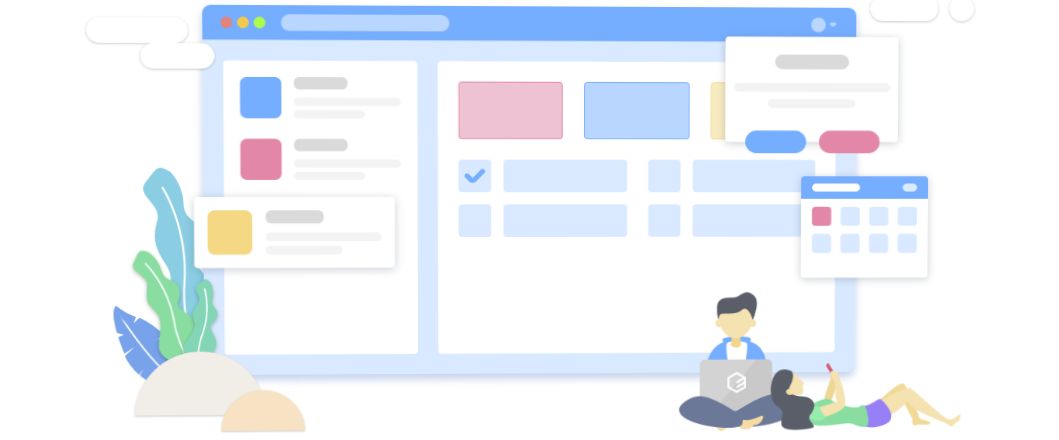
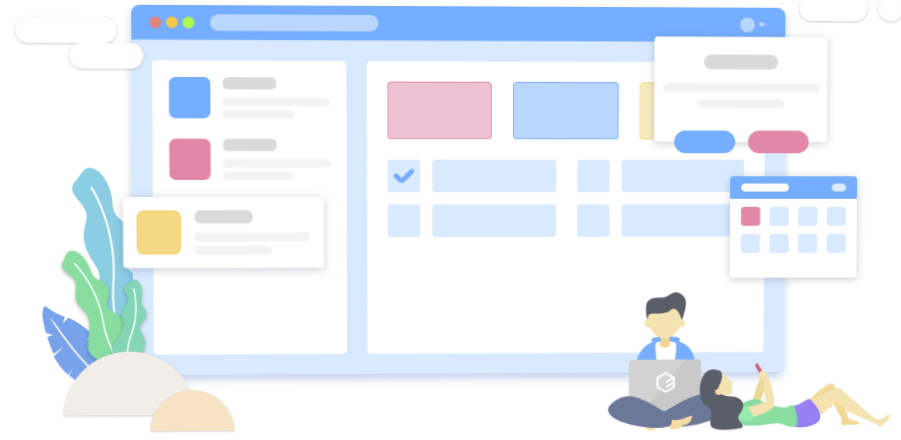
update: 优化首页，添加更新时间轴

diff --git a/wj-vue/src/components/home/Card.vue b/wj-vue/src/components/home/Card.vue
@@ -1,26 +1,44 @@
 <template>
-  <div style="width: 80%; margin-left: auto; margin-right: auto; height: 350px">
-    <div style="position: relative">
-      <el-card class="box-card">
-      <div slot="header" class="clearfix">
-        <span>最新内容</span>
-        <el-button style="float: right; padding: 3px 0" type="text">处理</el-button>
-      </div>
-      <div v-for="o in 4" :key="o" class="text item">
-        {{'新增内容 ' + o }}
-      </div>
-    </el-card>
-      <el-card class="box-card-2">
-        <div slot="header" class="clearfix">
-          <span>最新内容</span>
-          <el-button style="float: right; padding: 3px 0" type="text">处理</el-button>
-        </div>
-        <div v-for="o in 4" :key="o" class="text item">
-          {{'新增内容 ' + o }}
-        </div>
-      </el-card>
+  <el-card class="box-card">
+    <div slot="header" class="clearfix">
+      <span>最近更新</span>
+      <el-button style="float: right; padding: 3px 0" type="text">处理</el-button>
     </div>
-  </div>
+    <div class="block">
+      <el-timeline>
+        <el-timeline-item timestamp="2018/4/12" placement="top">
+          <el-card>
+            <h4>更新 Github 模板</h4>
+            <p>王小虎 提交于 2018/4/12 20:46</p>
+          </el-card>
+        </el-timeline-item>
+        <el-timeline-item timestamp="2018/4/3" placement="top">
+          <el-card>
+            <h4>更新 Github 模板</h4>
+            <p>王小虎 提交于 2018/4/3 20:46</p>
+          </el-card>
+        </el-timeline-item>
+        <el-timeline-item timestamp="2018/4/2" placement="top">
+          <el-card>
+            <h4>更新 Github 模板</h4>
+            <p>王小虎 提交于 2018/4/2 20:46</p>
+          </el-card>
+        </el-timeline-item>
+        <el-timeline-item timestamp="2018/4/3" placement="top">
+          <el-card>
+            <h4>更新 Github 模板</h4>
+            <p>王小虎 提交于 2018/4/3 20:46</p>
+          </el-card>
+        </el-timeline-item>
+        <el-timeline-item timestamp="2018/4/3" placement="top">
+          <el-card>
+            <h4>更新 Github 模板</h4>
+            <p>王小虎 提交于 2018/4/3 20:46</p>
+          </el-card>
+        </el-timeline-item>
+      </el-timeline>
+    </div>
+  </el-card>
 </template>
 
 <script>
@@ -30,40 +48,10 @@
 </script>
 
 <style scoped>
-  .text {
-    font-size: 14px;
-  }
-
-  .item {
-    margin-bottom: 18px;
-  }
-
   .box-card {
-    margin-top: 50px;
-    margin-left: auto;
-    margin-right: auto;
-    margin-bottom: 50px;
-    float: left;
-    width: 47%;
-    position: absolute;
-  }
-  .box-card-2 {
-    margin-top: 50px;
-    margin-left: auto;
-    margin-right: auto;
-    margin-bottom: 50px;
-    right: 0;
-    float: right;
-    width: 47%;
-    position: absolute;
-  }
-
-  .clearfix:before,
-  .clearfix:after {
-    display: table;
-    content: "";
-  }
-  .clearfix:after {
-    clear: both
+    margin-top: 5px;
+    width: 988px;
+    height: 970px;
+    text-align: left;
   }
 </style>

diff --git a/wj-vue/src/components/home/Carousel.vue b/wj-vue/src/components/home/Carousel.vue
@@ -1,4 +1,5 @@
 <template>
+  <el-card class="card-carousel">
   <el-carousel  class="push" :interval="4000" arrow="always">
     <el-carousel-item v-for="item in items" :key="item">
       <a :href=item.link target="_blank">
@@ -7,35 +8,40 @@
       <h3>{{item.title}}</h3>
     </el-carousel-item>
   </el-carousel>
+  </el-card>
 </template>
 
 <style>
   .el-carousel__item h3 {
-    color: #375669;
-    font-size: 14px;
+    color: black;
+    font-size: 15px;
     /*line-height: 300px;*/
-    margin: 0px;
+    bottom: 40px;
+    float: left;
+    position: relative;
+  }
+
+  .card-carousel {
+    /*margin: 0 auto;*/
+    margin-left: 20px;
+    width: 680px;
+    height: 320px;
   }
 
   .push {
-    padding:20px 0;
-    width: 900px;
-    height: 373px;
-    margin-left: auto;
-    margin-right: auto;
-    margin-top: 20px;
+    /*margin-left: -15px;*/
   }
 
   .el-carousel__item:nth-child(2n) {
-    background: linear-gradient(black, gainsboro);
+    background: black;
   }
 
   .el-carousel__item:nth-child(2n+1) {
-    background: linear-gradient(black,gainsboro);
+    background: black;
   }
 
   .carousel_img {
-    height: 92%;
+    height: 100%;
     width: 100%;
     text-align: center;
   }

diff --git a/wj-vue/src/components/home/QuickNav.vue b/wj-vue/src/components/home/QuickNav.vue
@@ -1,8 +1,8 @@
 <template>
-    <div id="pro-div">
-      <img src="../../assets/img/icon/icon2.png" alt="" width="300" height="280">
-      <img src="../../assets/img/icon/icon5.png" alt="" style="width: 300px; margin-left: 500px">
-      <img src="../../assets/img/icon/icon7.png" alt="" style="">
+    <div class="quick-nav">
+      <img src="../../assets/img/icon/icon2.png" alt="" class="monster">
+      <!--<img src="../../assets/img/icon/icon5.png" alt="" class="readme">-->
+      <img src="../../assets/img/icon/icon7.png" alt="">
     </div>
 </template>
 
@@ -13,10 +13,26 @@
 </script>
 
 <style scoped>
+  .quick-nav {
+    width: 303px;
+    height: 318px;
+    background-color: transparent;
+  }
 
-#pro-div{
-  height: 320px;
-  /*background-image: url("../../assets/img/bg/topo.png"), linear-gradient(70deg, #313375, #696cd2);*/
-}
+  .monster {
+    width: 280px;
+    height: 260px;
+    /*position: absolute;*/
+    top: 150px;
+    left: 700px;
+  }
+
+  .readme {
+    width: 180px;
+    height: 170px;
+    /*position: absolute;*/
+    top: 200px;
+    left: 400px;
+  }
 
 </style>

diff --git a/wj-vue/src/components/home/AppIndex.vue b/wj-vue/src/components/home/AppIndex.vue
@@ -1,9 +1,12 @@
 <template>
   <div class="index-body">
     <div class="home">
+      <div class="header-div">
+      <div style="height: 150px"></div>
       <carousel></carousel>
+      <quick-nav style="float: right;margin-top: -450px;margin-right: 480px"></quick-nav>
+      </div>
       <Card></Card>
-      <!--<quick-nav></quick-nav>-->
       <slogan></slogan>
       <Footer></Footer>
     </div>
@@ -25,7 +28,7 @@
 
 <style scoped>
   .home {
-    width: 960px;
+    width: 990px;
     margin-left: auto;
     margin-right: auto;
     margin-top: -20px;
@@ -35,5 +38,12 @@
     background: url("../../assets/img/bg/4.jpg");
     /*background-size: cover;*/
     background-position: center;
+  }
+
+  .header-div {
+    padding-bottom: 20px;
+    padding-left: 5px;
+    background-color: #ffe55c;
+    background: url("../../assets/img/bg/bg4.jpg");
   }
 </style>

diff --git a/wj-vue/src/main.js b/wj-vue/src/main.js
@@ -19,6 +19,7 @@ Vue.use(mavonEditor)
 /* eslint-disable no-new */
 new Vue({
   el: '#app',
+  render: h => h(App),
   router,
   components: { App },
   template: '<App/>'

diff --git a/wj-vue/src/components/home/Slogan.vue b/wj-vue/src/components/home/Slogan.vue
@@ -24,7 +24,7 @@
     height: 150px;
     background-color: #222;
     text-align: center;
-    margin-top: 30px;
+    margin-top: 5px;
   }
 
   .slogan {
